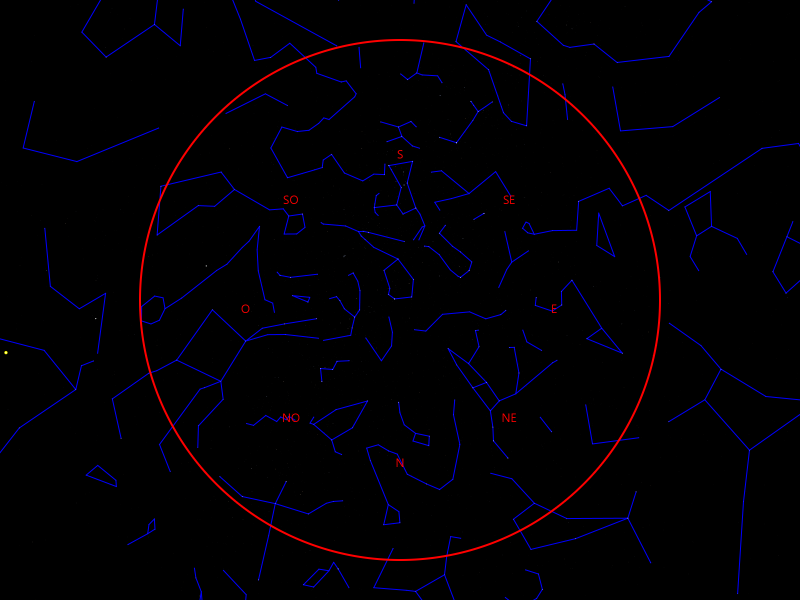
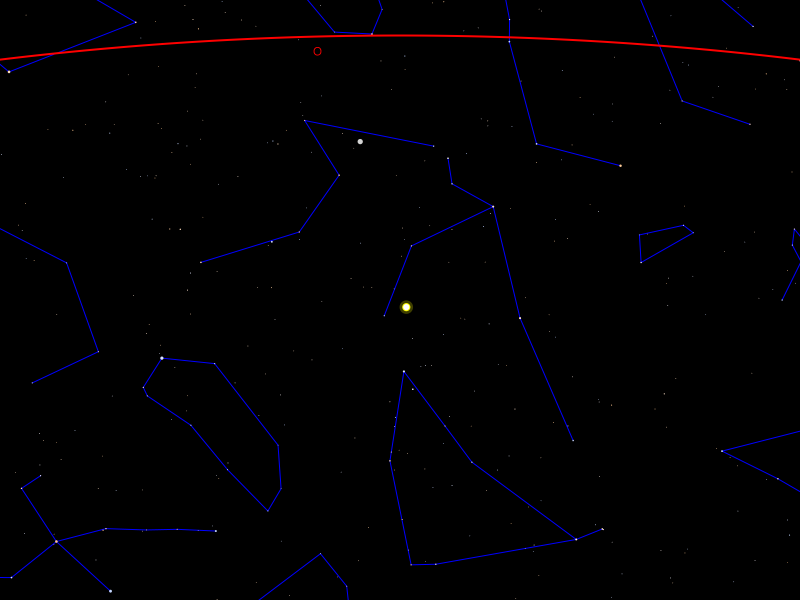
hhhhhhhhh

diff --git a/IC_Project/personal_tests/GUI/DrawSky.java b/IC_Project/personal_tests/GUI/DrawSky.java
@@ -43,19 +43,19 @@ public final class DrawSky extends Application {
       GeographicCoordinates where =
 	GeographicCoordinates.ofDeg(6.57, 46.52);
       
-      HorizontalCoordinates projCenter = HorizontalCoordinates.ofDeg(0, 90);//transform
-      //HorizontalCoordinates projCenter = HorizontalCoordinates.ofDeg(277, -23);
-      //HorizontalCoordinates projCenter = HorizontalCoordinates.ofDeg(0, 23);//Sun
+     //HorizontalCoordinates projCenter = HorizontalCoordinates.ofDeg(0, 90);//transform
+      HorizontalCoordinates projCenter = HorizontalCoordinates.ofDeg(277, -23);
+     // HorizontalCoordinates projCenter = HorizontalCoordinates.ofDeg(0, 23);//Sun
       //HorizontalCoordinates projCenter =HorizontalCoordinates.ofDeg(180, 45);
      // HorizontalCoordinates projCenter = HorizontalCoordinates.ofDeg(3.7, -65);//lune
       StereographicProjection projection =
 	new StereographicProjection(projCenter);
       ObservedSky sky =
 	new ObservedSky(when, where, projection, catalogue);
-    Transform planeToCanvas = Transform.affine(260, 0, 0, -260, 400, 300);//other transform
+   // Transform planeToCanvas = Transform.affine(260, 0, 0, -260, 400, 300);//other transform
       Canvas canvas =
 	new Canvas(800, 600);
-     // Transform planeToCanvas =Transform.affine(1300, 0, 0, -1300, 400, 300); //prof transfrom
+      Transform planeToCanvas =Transform.affine(1300, 0, 0, -1300, 400, 300); //prof transfrom
       SkyCanvasPainter painter =
 	new SkyCanvasPainter(canvas);
 

diff --git a/IC_Project/src/ch/epfl/rigel/gui/SkyCanvasPainter.java b/IC_Project/src/ch/epfl/rigel/gui/SkyCanvasPainter.java
@@ -104,17 +104,19 @@ public class SkyCanvasPainter {
 		HorizontalCoordinates parallel = HorizontalCoordinates.of(0, 0);
 		CartesianCoordinates centerCart = projection.circleCenterForParallel(parallel);
 		Point2D center = transform.transform(centerCart.x(), centerCart.y());
-		double diameter = 2*projection.circleRadiusForParallel(parallel)*transform.getMxx();
+		double diameter = Math.abs(2*projection.circleRadiusForParallel(parallel)*transform.getMxx());
+		
 		ctx.strokeOval(getCorrCoord(center.getX(),diameter), getCorrCoord(center.getY(),diameter), diameter, diameter);
 		//Drawing the text
 		ctx.setTextBaseline(VPos.TOP);
+		
 		ctx.setTextAlign(TextAlignment.CENTER);
 		ctx.setFill(HORIZON_COLOR);
 		HorizontalCoordinates textHorCoord ;
 		CartesianCoordinates centerTextCartCoord;
 		Point2D centerText;
 		for(int i=0; i<360;i+=45) {
-			textHorCoord=HorizontalCoordinates.of(Angle.ofDeg(i), 0.5);
+			textHorCoord=HorizontalCoordinates.of(Angle.ofDeg(i), Angle.ofDeg(-0.5));
 			centerTextCartCoord= projection.apply(textHorCoord);
 			centerText= transform.transform(centerTextCartCoord.x(), centerTextCartCoord.y());
 			ctx.fillText(textHorCoord.azOctantName("N", "E", "S", "O"), centerText.getX(), centerText.getY());
